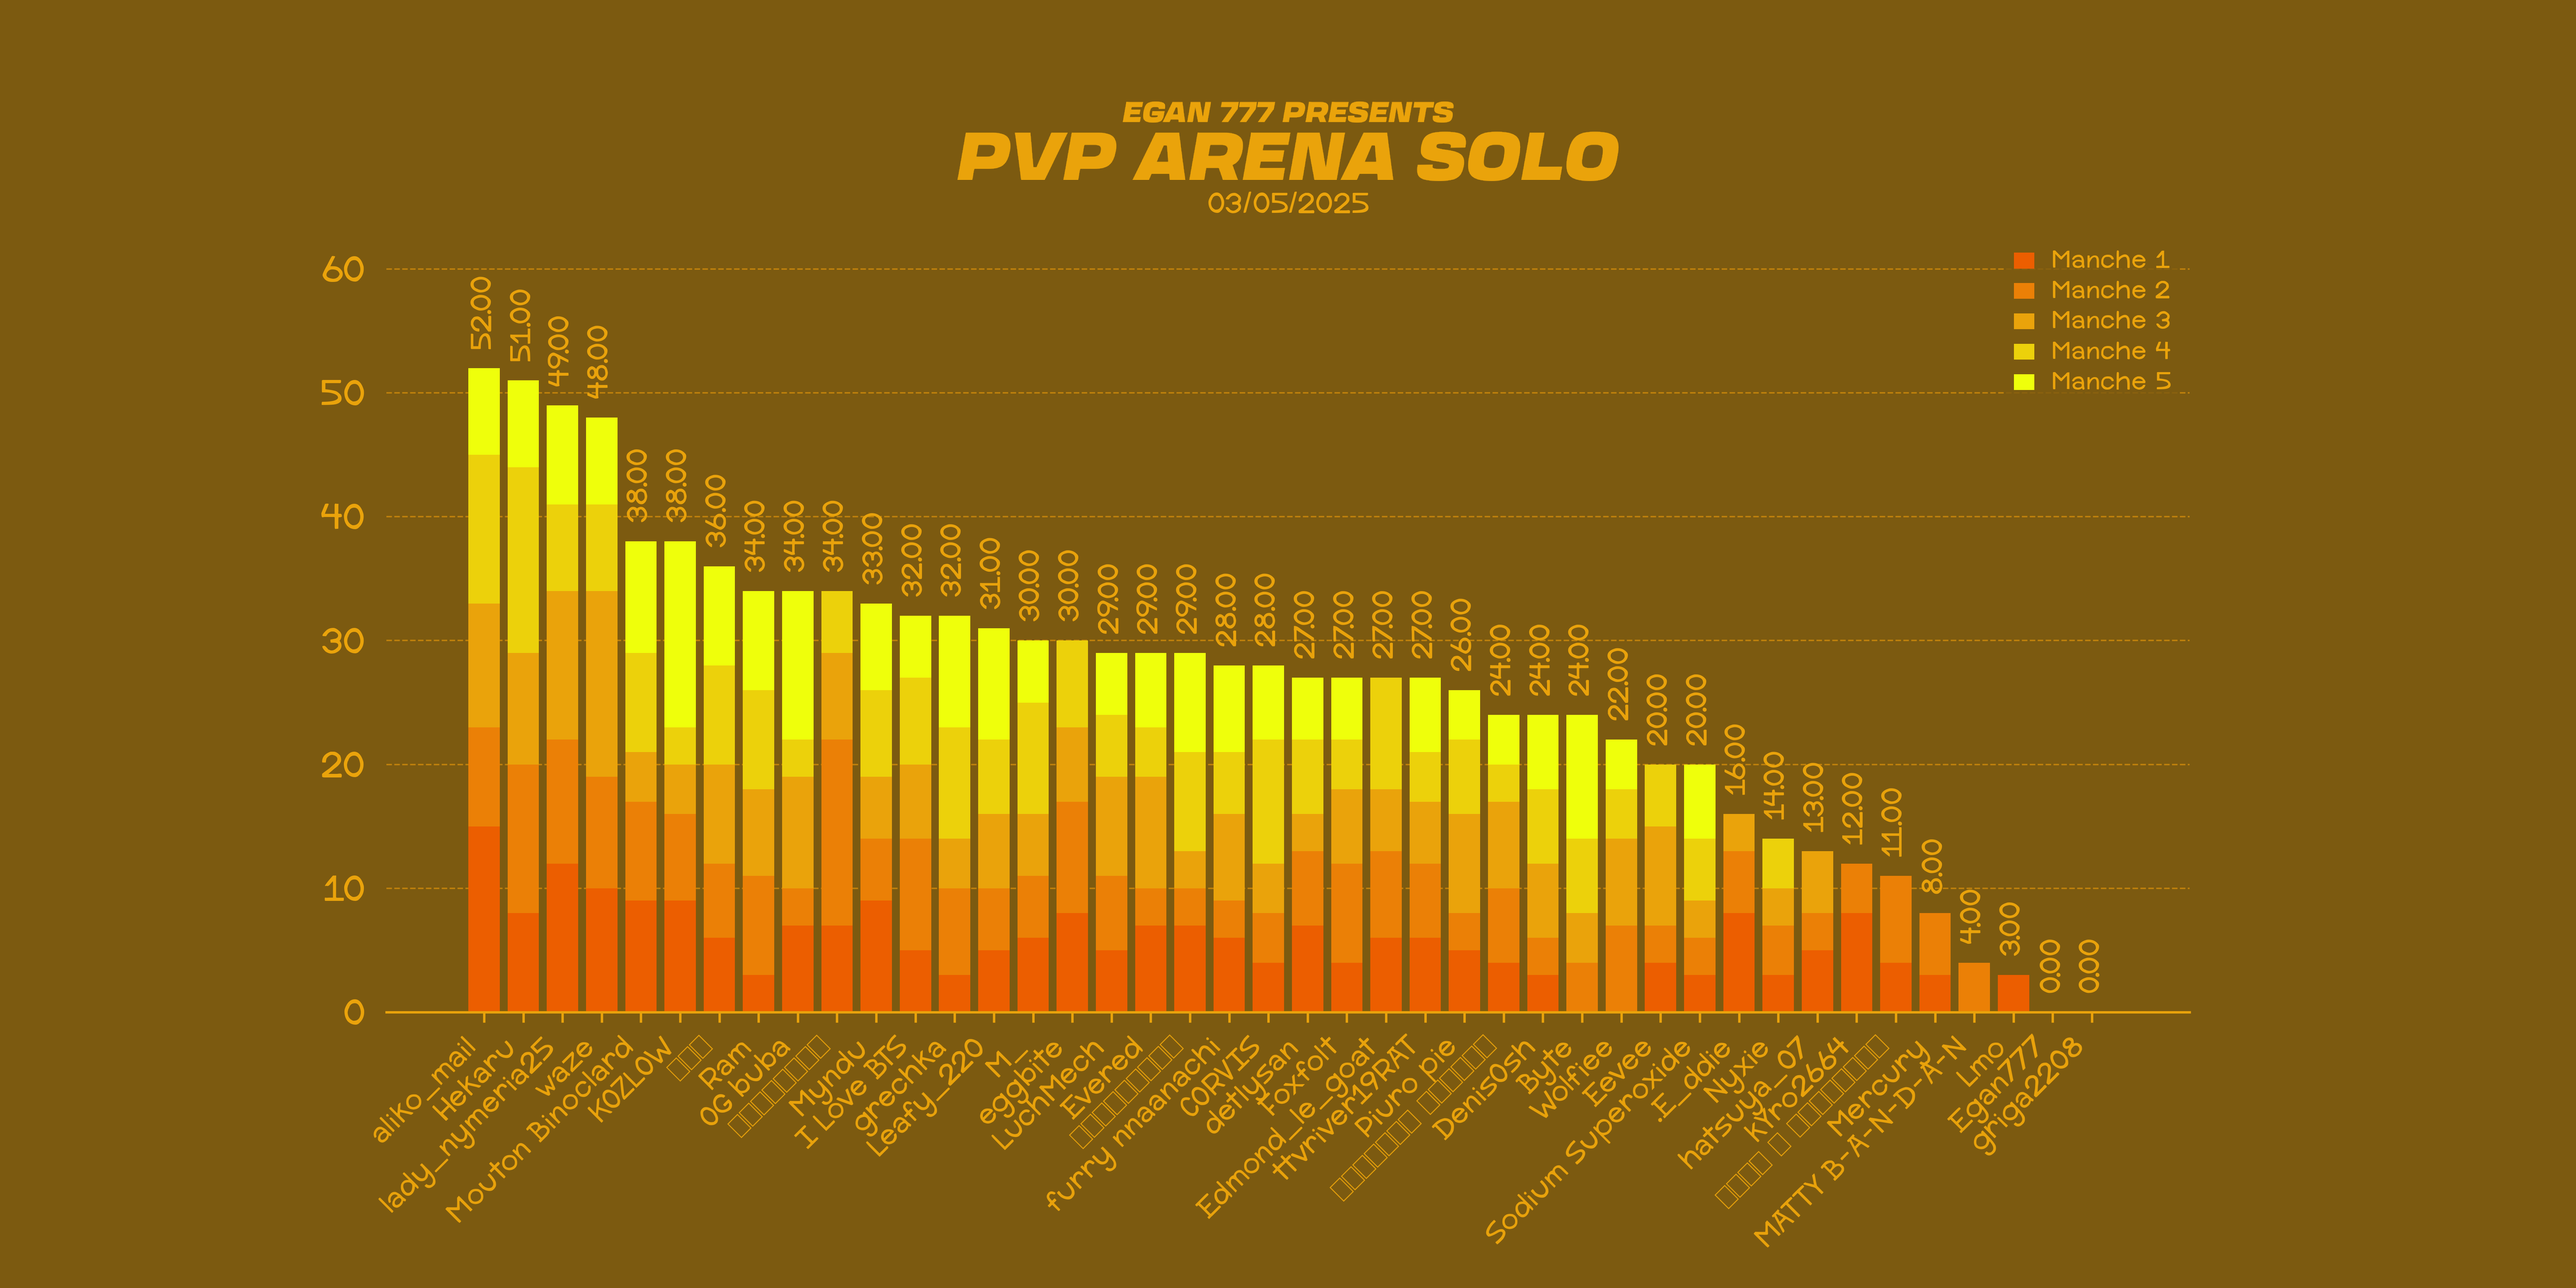
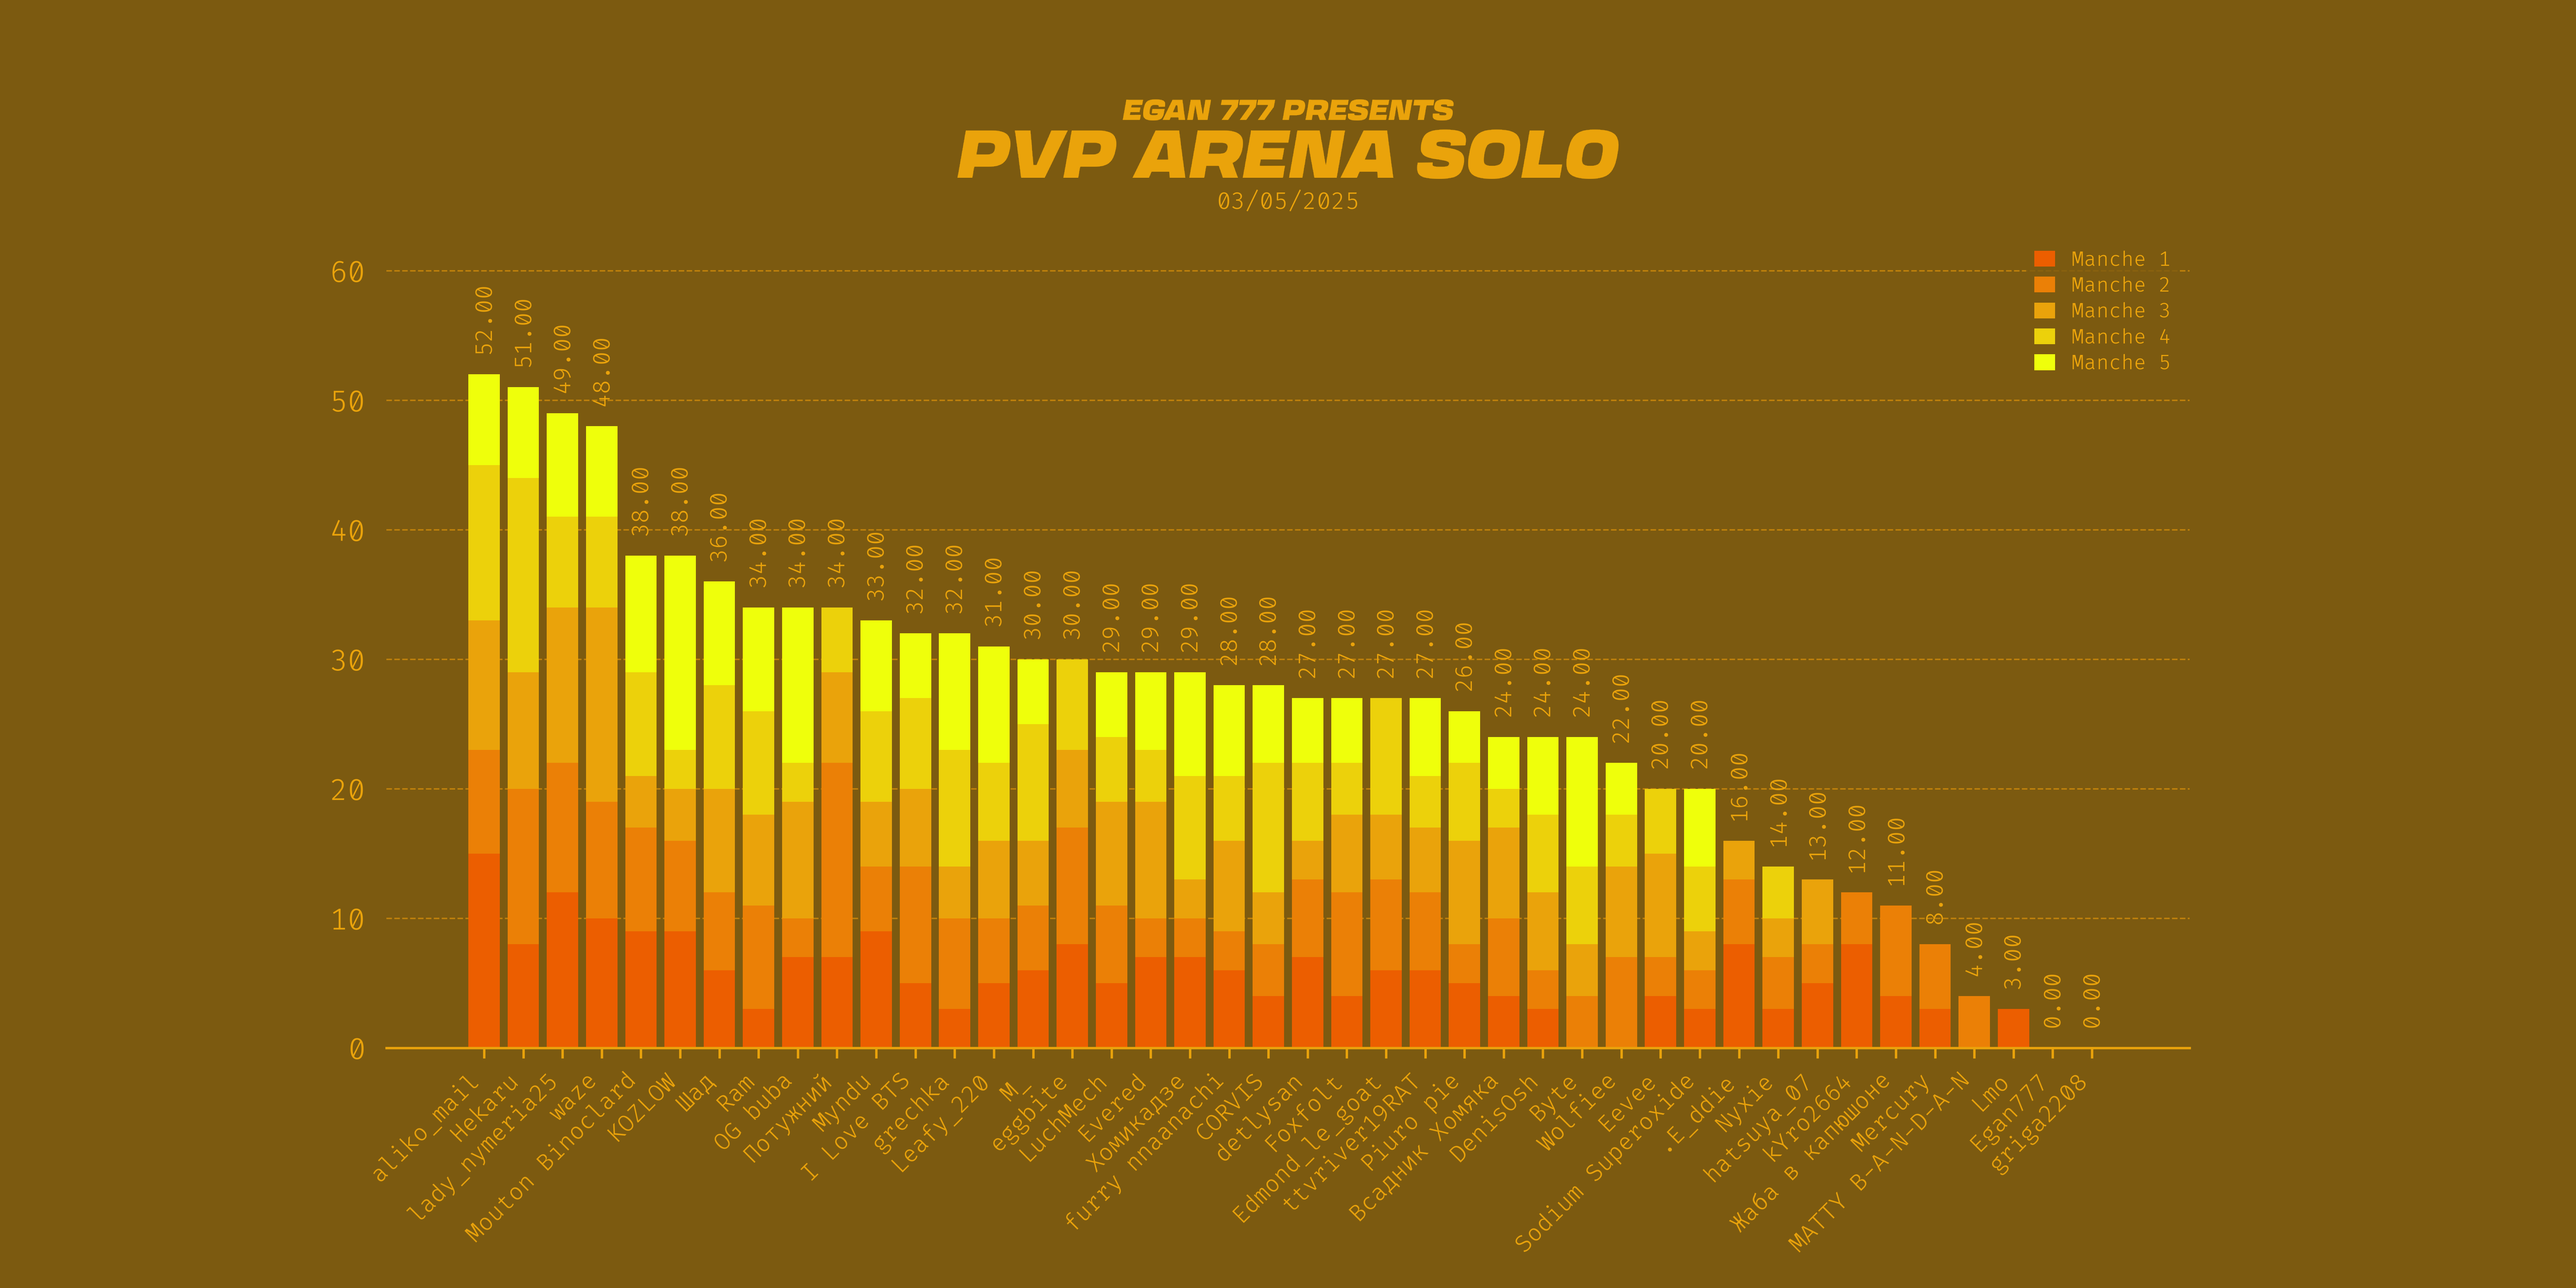
update font

diff --git a/SPC.py b/SPC.py
@@ -52,7 +52,7 @@ zoom_logo=0.16
 date=True
 
 add_custom_fonts = True
-font_name = "Fira Code"
+custom_font = fm.FontProperties(fname=r"C:\Windows\Fonts\FiraCode-VariableFont_wght.ttf")
 
 # ----------------------------------------------------------------------------
 
@@ -79,11 +79,9 @@ color_scheme = "SPC_color_schemes/pvp_arena_solo.json"
 
 if add_custom_fonts:
 
-    #fp = fm.FontProperties(fname=r"C:\Windows\Fonts\Zoetic.ttf")
-    #print(fp.get_name())
 
+    font_name=custom_font.get_name()
     # fontlist-vXXX.json
-
     # Appliquer la police globalement
     rcParams['font.family'] = [font_name]
 
